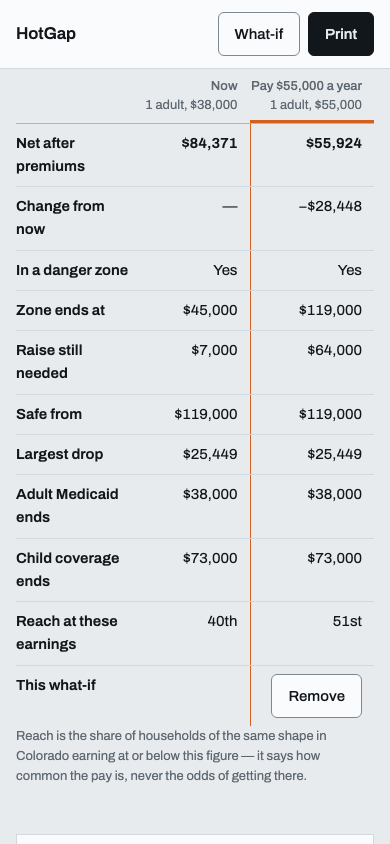
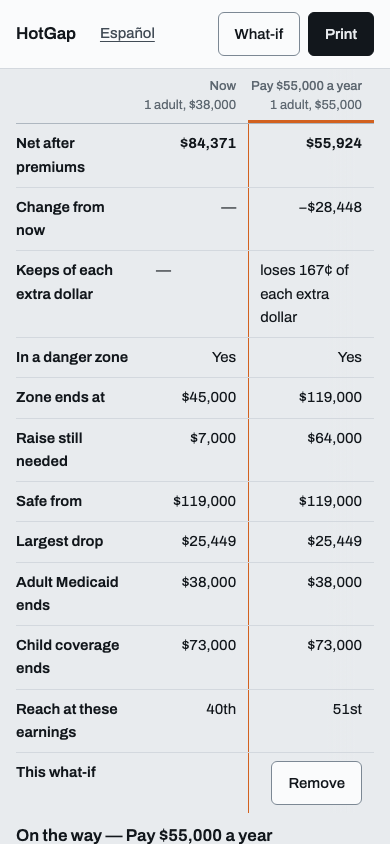
app: the site contract says the picture comes first, and how to weigh a page
README § Pages gains the order every surface builds to and the two scripts that
measure it; § Proofs lists weight.mjs and shots.mjs beside the runners;
§ Languages records the Spanish redraft and the three phrases three native
readers named.

The caseworker review's renders come along because running its proof against
this build re-rendered them: the answer sentence and the ScenarioBar's summary
line are shared, so that page's pictures moved with them. Its own review text
is untouched, and what the register there should say is that pass's call.

Claude-Session: https://claude.ai/code/session_01VvWn1PJAQjs254SmzT8eM8

diff --git a/app/README.md b/app/README.md
@@ -19,9 +19,18 @@ evaluates on the public PolicyEngine API's older model — still `live`.
 
 | Page | Surface | Module | State |
 |---|---|---|---|
-| `index.html` | citizen | `src/citizen/main.ts` — mounts the editor and the result (`src/citizen/result.ts`; the pure modules beside it render every component `design/inventory.md` assigns to the surface, from one `HouseholdEvaluation`) | built; proofs `e2e/citizen.spec.ts` |
+| `index.html` | citizen | `src/citizen/main.ts` — mounts the editor and the result (`src/citizen/result.ts`; the pure modules beside it render every component `design/inventory.md` assigns to the surface, from one `HouseholdEvaluation`) | built, picture first since 2026-09-18; proofs `e2e/citizen.spec.ts` |
 | `places.html` | journalist | `src/places/main.ts` | being built |
 | `caseworker.html` | caseworker | `src/caseworker/main.ts` — the editor with this surface's actions and register (`copy.ts`, every string of the page), the base household in full, its what-ifs beside it | built; reviewed 2026-09-16 |
+
+**The order on every page** (`design/PICTURE-FIRST-2026-09-18.md`,
+`design/inventory.md` § The page is its picture): one line of masthead, one
+sentence, then the figure — nothing else above the fold. Everything the page
+says beyond that is in the DOM behind named `details.hg-disclosure` panels,
+open on paper and reachable by keyboard. The budget is measured, not asserted:
+`node e2e/weight.mjs <base-url>` counts the words a person can really see, and
+the same run with every disclosure open is the proof that nothing was deleted
+to meet it.
 
 Every page imports `design/tokens.css` and uses its `hg-*` classes
 (`design/inventory.md` § Class map); a page keeps only its own layout
@@ -339,7 +348,11 @@ noun, so `shared.county.*` says the kind ("Condado de El Paso"). The language
 switch, where a language names itself. A citation's hostname.
 
 **Spanish is a draft.** `es-US.json` says so in its `_` record, with the date
-it was written (2026-09-17) and `reviewed: null`. It was drafted by the model
+it was written (2026-09-17), the date it was redrafted to the new citizen
+register (2026-09-18) and `reviewed: null`. Three native readers have since
+read the citizen page and named three phrases that sounded machine-written;
+those are fixed (`design/REVIEW-picture-first-citizen-2026-09-18.md`), which
+is a reading, not a review. It was drafted by the model
 in each persona's register — the citizen plain and in `usted`, the caseworker
 professional, the journalist quotable — and no native speaker has read it.
 `design/README.md` § Languages says what a reviewer should look at first.
@@ -352,6 +365,8 @@ professional, the journalist quotable — and no native speaker has read it.
     cd worker && npm run build         # wrangler deploy --dry-run: bundle 923 KiB / 180 KiB gzip
     cd app && npx playwright test      # builds, starts wrangler dev, runs e2e/*.spec.ts — the editor, citizen, caseworker and places proofs, and the languages gate i18n.spec.ts (HOTGAP_ARCHETYPE_URL=a dead-engine server runs the caseworker's B1 test too; screenshots to design/audit/app/; the shared harness is e2e/support.ts)
     node e2e/text-dump.mjs <dir> <url> [lang]   # every page's text at 1280, one file each: diff two builds to prove a rendered string did not move
+    node e2e/weight.mjs <base-url> [path…]      # words visible by default and with every disclosure open, where the first figure starts, how much of the first screen it covers — the picture-first budget, per page and width
+    node e2e/shots.mjs <dir> <base-url> [lang]  # the citizen households at both widths, both schemes, open and on paper, for a reviewer to read
 
 For the archetype path: run `wrangler dev` yourself with a dead engine
 (`HOTGAP_PE_URL=http://127.0.0.1:9/us/calculate` in `worker/.dev.vars`), then
